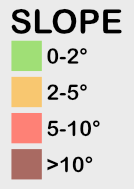
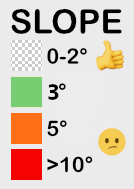
Add legends

diff --git a/src/loaders/addLegends.js b/src/loaders/addLegends.js
@@ -6,30 +6,41 @@ export const addLegends = async (map) =>
 
     slopeLegend.onAdd = function (map) 
     {
-        var div = L.DomUtil.create('div', 'info legend');
+        var div = L.DomUtil.create('div', 'legend');
         div.innerHTML +='<img src="./img/slopelegend.png" alt="legend" width="100" height="141">';
         return div;
     };
 
-    // var soundLegend = L.control({position: 'bottomleft'});
+    var heightlegend = L.control({position: 'bottomright'});
 
-    // soundLegend.onAdd = function (map) 
-    // {
-    //     var div = L.DomUtil.create('div', 'info legend');
-    //     div.innerHTML += '<img src="./img/soundlegend.png" alt="legend" width="100" height="141">';
-    //     return div;
-    // };
+    heightlegend.onAdd = function (map) 
+    {
+        var div = L.DomUtil.create('div', 'legend');
+        div.innerHTML +='<img src="./img/heightlegend.png" alt="legend" width="100" height="124">';
+        return div;
+    };
+
+    var soundLegend = L.control({position: 'bottomright'});
+
+    soundLegend.onAdd = function (map) 
+    {
+        var div = L.DomUtil.create('div', 'legend');
+        div.innerHTML += '<img src="./img/soundlegend.png" alt="legend" width="100" height="98">';
+        return div;
+    };
 
     map.on('overlayadd', function (eventLayer) 
     {
         console.log(eventLayer.name);
-        if (eventLayer.name === 'Slope map') slopeLegend.addTo(this);
-        // else if (eventLayer.name === 'Sound guide') soundLegend.addTo(this);
+        if (eventLayer.name === 'Slope') slopeLegend.addTo(this);
+        else if (eventLayer.name === 'Soundguide') soundLegend.addTo(this);
+        else if (eventLayer.name === 'Height') heightlegend.addTo(this);
     });
 
     map.on('overlayremove', function (eventLayer) 
     {
-        if (eventLayer.name === 'Slope map') this.removeControl(slopeLegend);
-        // else if (eventLayer.name === 'Sound guide') this.removeControl(soundLegend);
+        if (eventLayer.name === 'Slope') this.removeControl(slopeLegend);
+        else if (eventLayer.name === 'Soundguide') this.removeControl(soundLegend);
+        else if (eventLayer.name === 'Height') this.removeControl(heightlegend);
     });
 };

diff --git a/src/map.js b/src/map.js
@@ -19,7 +19,7 @@ import { addLegends } from './loaders/addLegends';
 import { Editor } from './editor';
 
 export const createMap = async () => {
-    const map = L.map('map', { zoomControl: false, maxZoom: 21, drawControl: true })
+    const map = L.map('map', { zoomControl: false, maxZoom: 21, drawControl: true, attributionControl: false })
     .setView([57.6226, 14.9276], 16);
     
     map.groups = {};
@@ -61,7 +61,7 @@ export const createMap = async () => {
         [57.6291230394961715, 14.9362178462290363],
     ]);
 
-    map.groups.slopemap = L.tileLayer('./data/analysis/slope/{z}/{x}/{y}.png', {
+    map.groups.heightmap = L.tileLayer('./data/analysis/height/{z}/{x}/{y}.jpg', {
         minZoom: 13,
         maxZoom: 21,
         minNativeZoom: 16,
@@ -69,7 +69,7 @@ export const createMap = async () => {
         tms: false
       });
 
-    map.groups.heightmap = L.tileLayer('./data/analysis/height/{z}/{x}/{y}.jpg', {
+    map.groups.slopemap = L.tileLayer('./data/analysis/slope/{z}/{x}/{y}.png', {
         minZoom: 13,
         maxZoom: 21,
         minNativeZoom: 16,
@@ -93,7 +93,8 @@ export const createMap = async () => {
 
     // Add map features
     // await loadTooltipZoom(map);
-    L.control.scale({ metric: true, imperial: false, position: 'bottomright' }).addTo(map);
+    
+    // L.control.scale({ metric: true, imperial: false, position: 'bottomright' }).addTo(map);
     
     // Reactivate closer to BL. Double check this functionality, reportedly buggy.
     // L.control.locate({ setView: 'once', keepCurrentZoomLevel: true,	returnToPrevBounds: true, drawCircle: true,	flyTo: true}).addTo(map);
